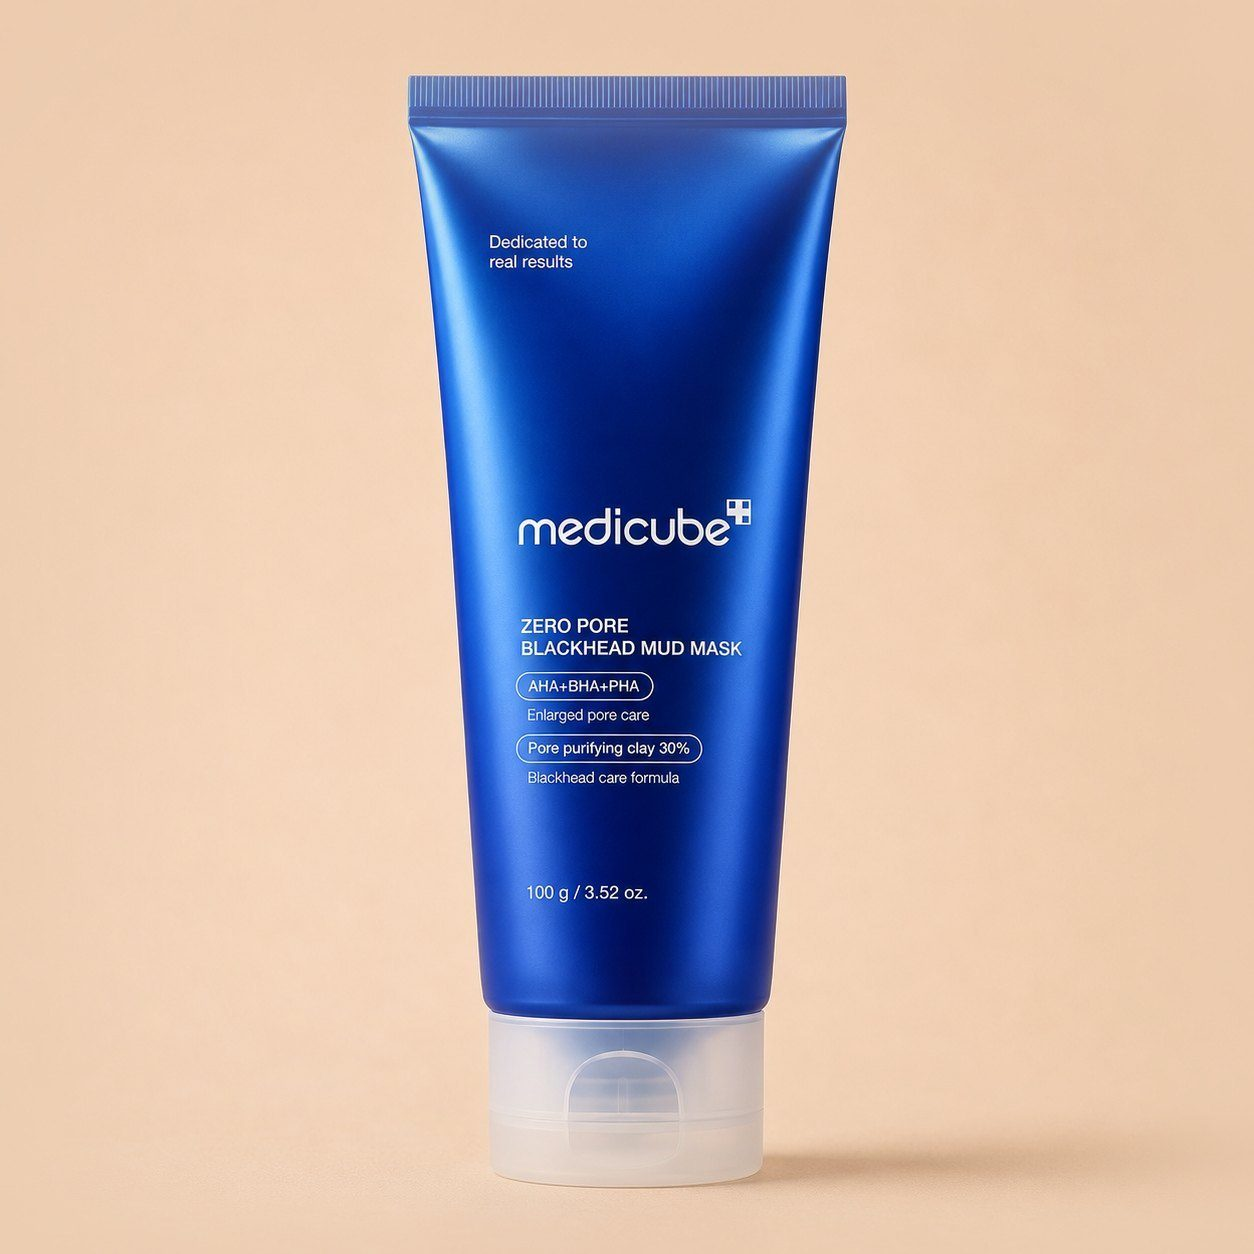
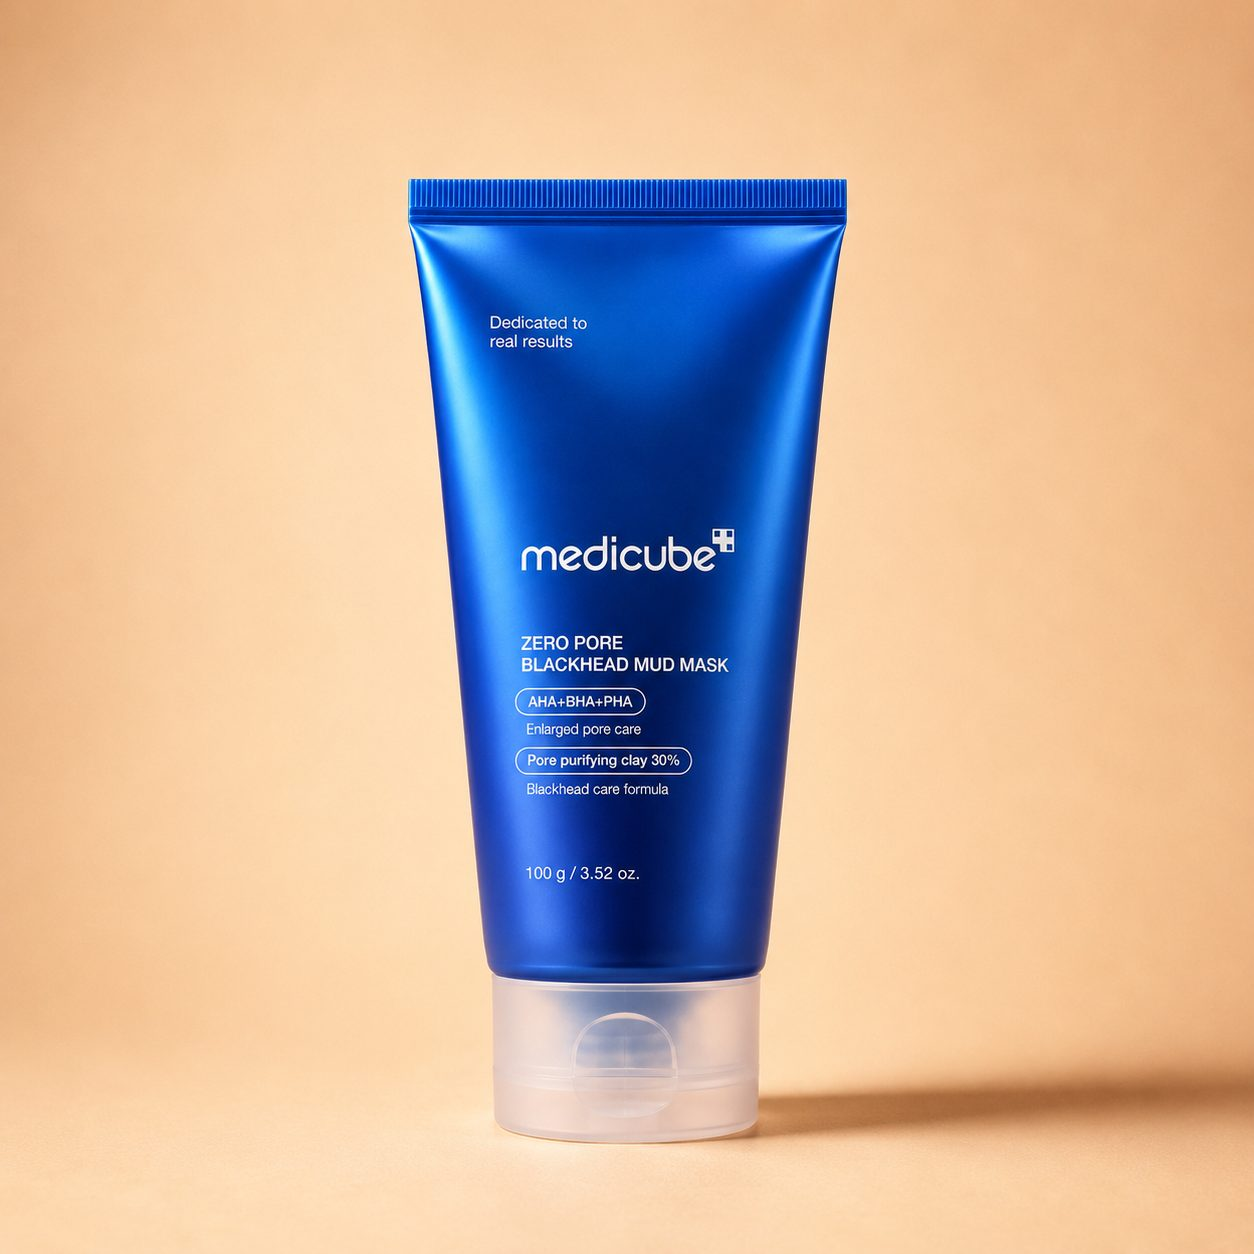
Photograph and price the Zero Pore Blackhead Mud Mask
The page had a single picture of the tube and no price. Five
photographs now, and R350.00 through the PRICES table, so the card, the
page, the cart line, the order total and the JSON-LD offer all follow
from the one entry.

The new cover takes the primary slug, since that is what the card, the
Open Graph image and the gallery hero resolve to. The packshot it
replaces is deleted rather than kept: it was the same tube at the same
angle on the same ground, and a gallery that opens on two versions of
one photograph reads as a mistake.

Nothing on the page needed correcting against the packaging — the tube
confirms the 100 g, the AHA+BHA+PHA and the 30% pore-purifying clay the
copy already claimed.

Four of the five arrived portrait against a 1/1 stage and are cropped
on a point that keeps the tube, and the model's face where there is
one, in frame.

diff --git a/dist/medicube-zero-pore-blackhead-mud-mask.html b/dist/medicube-zero-pore-blackhead-mud-mask.html
@@ -43,7 +43,14 @@
  },
  "description": "Medicube Zero Pore Blackhead Mud Mask 100 g \u2014 a clay treatment mask with AHA, BHA, PHA and a 30% pore-purifying clay complex.",
  "image": "https://mcclouds-web.github.io/cassarobeauty/assets/products/medicube-zero-pore-blackhead-mud-mask.jpg",
- "url": "https://mcclouds-web.github.io/cassarobeauty/medicube-zero-pore-blackhead-mud-mask.html"
+ "url": "https://mcclouds-web.github.io/cassarobeauty/medicube-zero-pore-blackhead-mud-mask.html",
+ "offers": {
+  "@type": "Offer",
+  "price": "350.00",
+  "priceCurrency": "ZAR",
+  "availability": "https://schema.org/InStock",
+  "url": "https://mcclouds-web.github.io/cassarobeauty/medicube-zero-pore-blackhead-mud-mask.html"
+ }
 }</script>
 </head>
 <body>
@@ -145,7 +152,11 @@
         <button class="pdp__arrow pdp__arrow--next" aria-label="Next">&rsaquo;</button>
       </div>
       <div class="pdp__thumbs">
-        <button class="is-active" aria-label="Show image 1"><picture><source srcset="assets/products/medicube-zero-pore-blackhead-mud-mask.webp" type="image/webp"/><img class="ph-img" src="assets/products/medicube-zero-pore-blackhead-mud-mask.jpg" alt="Zero Pore Blackhead Mud Mask view 1" width="1254" height="1254" loading="lazy" decoding="async"/></picture></button>
+        <button class="is-active" aria-label="Show image 1"><picture><source srcset="assets/products/medicube-zero-pore-blackhead-mud-mask.webp" type="image/webp"/><img class="ph-img" src="assets/products/medicube-zero-pore-blackhead-mud-mask.jpg" alt="Zero Pore Blackhead Mud Mask tube" width="1254" height="1254" loading="lazy" decoding="async"/></picture></button>
+        <button aria-label="Show image 2"><picture><source srcset="assets/products/medicube-zero-pore-blackhead-mud-mask-model.webp" type="image/webp"/><img class="ph-img" src="assets/products/medicube-zero-pore-blackhead-mud-mask-model.jpg" alt="A model holding the Zero Pore Blackhead Mud Mask" width="1122" height="1122" loading="lazy" decoding="async"/></picture></button>
+        <button aria-label="Show image 3"><picture><source srcset="assets/products/medicube-zero-pore-blackhead-mud-mask-hand.webp" type="image/webp"/><img class="ph-img" src="assets/products/medicube-zero-pore-blackhead-mud-mask-hand.jpg" alt="The tube held up against a warm ground" width="1122" height="1122" loading="lazy" decoding="async"/></picture></button>
+        <button aria-label="Show image 4"><picture><source srcset="assets/products/medicube-zero-pore-blackhead-mud-mask-stone.webp" type="image/webp"/><img class="ph-img" src="assets/products/medicube-zero-pore-blackhead-mud-mask-stone.jpg" alt="The tube on stone beside a folded towel" width="1086" height="1086" loading="lazy" decoding="async"/></picture></button>
+        <button aria-label="Show image 5"><picture><source srcset="assets/products/medicube-zero-pore-blackhead-mud-mask-flatlay.webp" type="image/webp"/><img class="ph-img" src="assets/products/medicube-zero-pore-blackhead-mud-mask-flatlay.jpg" alt="The tube resting on a travertine block" width="1024" height="1024" loading="lazy" decoding="async"/></picture></button>
       </div>
     </div>
 
@@ -153,7 +164,7 @@
       <p class="pcard__cat">Medicube &middot; Treatment Mask</p>
       <h2 class="pdp__title">Zero Pore Blackhead Mud Mask <span class="tag-stock">In Stock</span></h2>
       <div class="pdp__rating"><span class="stars-inline"><span class="material-symbols-outlined star">star</span><span class="material-symbols-outlined star">star</span><span class="material-symbols-outlined star">star</span><span class="material-symbols-outlined star">star</span><span class="material-symbols-outlined star">star_half</span></span><b>4.7</b> <span>(147 reviews)</span></div>
-      <div class="pdp__price">R___</div>
+      <div class="pdp__price">R350.00</div>
       <p>A clay-based treatment mask designed to help absorb excess oil, purify congested pores and improve the appearance of blackheads. Its formula combines a 30% pore-purifying clay complex with AHA, BHA and PHA for a more refined, refreshed-looking complexion.</p>
 
       <div class="pdp__sizes">

diff --git a/pages/medicube-zero-pore-blackhead-mud-mask.html b/pages/medicube-zero-pore-blackhead-mud-mask.html
@@ -16,7 +16,11 @@
         <button class="pdp__arrow pdp__arrow--next" aria-label="Next">&rsaquo;</button>
       </div>
       <div class="pdp__thumbs">
-        <button class="is-active" aria-label="Show image 1">{{IMG|medicube-zero-pore-blackhead-mud-mask|Zero Pore Blackhead Mud Mask view 1}}</button>
+        <button class="is-active" aria-label="Show image 1">{{IMG|medicube-zero-pore-blackhead-mud-mask|Zero Pore Blackhead Mud Mask tube}}</button>
+        <button aria-label="Show image 2">{{IMG|medicube-zero-pore-blackhead-mud-mask-model|A model holding the Zero Pore Blackhead Mud Mask}}</button>
+        <button aria-label="Show image 3">{{IMG|medicube-zero-pore-blackhead-mud-mask-hand|The tube held up against a warm ground}}</button>
+        <button aria-label="Show image 4">{{IMG|medicube-zero-pore-blackhead-mud-mask-stone|The tube on stone beside a folded towel}}</button>
+        <button aria-label="Show image 5">{{IMG|medicube-zero-pore-blackhead-mud-mask-flatlay|The tube resting on a travertine block}}</button>
       </div>
     </div>
 
@@ -24,7 +28,7 @@
       <p class="pcard__cat">Medicube &middot; Treatment Mask</p>
       <h2 class="pdp__title">Zero Pore Blackhead Mud Mask <span class="tag-stock">In Stock</span></h2>
       {{RATING|Zero Pore Blackhead Mud Mask}}
-      <div class="pdp__price">R___</div>
+      <div class="pdp__price">R350.00</div>
       <p>A clay-based treatment mask designed to help absorb excess oil, purify congested pores and improve the appearance of blackheads. Its formula combines a 30% pore-purifying clay complex with AHA, BHA and PHA for a more refined, refreshed-looking complexion.</p>
 
       <div class="pdp__sizes">

diff --git a/dist/medicube-zero-pore-pad.html b/dist/medicube-zero-pore-pad.html
@@ -305,7 +305,7 @@
 </div>
 <div class="pcard__row"><span class="pcard__cat">Medicube</span><span class="rating"><span class="material-symbols-outlined star">star</span><span class="material-symbols-outlined star">star</span><span class="material-symbols-outlined star">star</span><span class="material-symbols-outlined star">star</span><span class="material-symbols-outlined star">star_half</span><span class="rating__n">4.7</span></span></div>
 <h3 class="pcard__name">Zero Pore Blackhead Mud Mask</h3>
-<div class="price">R___</div>
+<div class="price">R350.00</div>
 </a>
       <a class="pcard" href="medicube-pdrn-pink-niacinamide-whip-cleanser.html" data-brand="Medicube" data-cat="Face Cleansers" data-skin="normal combination oily" data-concern="brightening" data-stock="in">
 <div class="pcard__media">

diff --git a/dist/beauty-of-joseon-red-bean-refreshing-pore-mask.html b/dist/beauty-of-joseon-red-bean-refreshing-pore-mask.html
@@ -305,7 +305,7 @@
 </div>
 <div class="pcard__row"><span class="pcard__cat">Medicube</span><span class="rating"><span class="material-symbols-outlined star">star</span><span class="material-symbols-outlined star">star</span><span class="material-symbols-outlined star">star</span><span class="material-symbols-outlined star">star</span><span class="material-symbols-outlined star">star_half</span><span class="rating__n">4.7</span></span></div>
 <h3 class="pcard__name">Zero Pore Blackhead Mud Mask</h3>
-<div class="price">R___</div>
+<div class="price">R350.00</div>
 </a>
       <a class="pcard" href="beauty-of-joseon-glow-deep-serum.html" data-brand="Beauty of Joseon" data-cat="Serums" data-skin="normal combination dry" data-concern="brightening dark-spots" data-stock="in">
 <div class="pcard__media">

diff --git a/dist/shop.html b/dist/shop.html
@@ -512,7 +512,7 @@
 </div>
 <div class="pcard__row"><span class="pcard__cat">Medicube</span><span class="rating"><span class="material-symbols-outlined star">star</span><span class="material-symbols-outlined star">star</span><span class="material-symbols-outlined star">star</span><span class="material-symbols-outlined star">star</span><span class="material-symbols-outlined star">star_half</span><span class="rating__n">4.7</span></span></div>
 <h3 class="pcard__name">Zero Pore Blackhead Mud Mask</h3>
-<div class="price">R___</div>
+<div class="price">R350.00</div>
 </a>
         <a class="pcard" href="medicube-zero-pore-pad.html" data-brand="Medicube" data-cat="Toners" data-skin="combination oily" data-concern="blemishes brightening" data-stock="in">
 <div class="pcard__media">

diff --git a/dist/skincare.html b/dist/skincare.html
@@ -566,7 +566,7 @@
 </div>
 <div class="pcard__row"><span class="pcard__cat">Medicube</span><span class="rating"><span class="material-symbols-outlined star">star</span><span class="material-symbols-outlined star">star</span><span class="material-symbols-outlined star">star</span><span class="material-symbols-outlined star">star</span><span class="material-symbols-outlined star">star_half</span><span class="rating__n">4.7</span></span></div>
 <h3 class="pcard__name">Zero Pore Blackhead Mud Mask</h3>
-<div class="price">R___</div>
+<div class="price">R350.00</div>
 </a>
         <a class="pcard" href="medicube-zero-pore-pad.html" data-brand="Medicube" data-cat="Toners" data-skin="combination oily" data-concern="blemishes brightening" data-stock="in">
 <div class="pcard__media">

diff --git a/dist/anua-azelaic-acid-10-hyaluron-serum.html b/dist/anua-azelaic-acid-10-hyaluron-serum.html
@@ -329,7 +329,7 @@
 </div>
 <div class="pcard__row"><span class="pcard__cat">Medicube</span><span class="rating"><span class="material-symbols-outlined star">star</span><span class="material-symbols-outlined star">star</span><span class="material-symbols-outlined star">star</span><span class="material-symbols-outlined star">star</span><span class="material-symbols-outlined star">star_half</span><span class="rating__n">4.7</span></span></div>
 <h3 class="pcard__name">Zero Pore Blackhead Mud Mask</h3>
-<div class="price">R___</div>
+<div class="price">R350.00</div>
 </a>
     </div>
   </div>

diff --git a/build.py b/build.py
@@ -334,6 +334,7 @@ PRICES = {
  "Zero Pore Pad": 580.00,
  "Red Bean Refreshing Pore Mask": 480.00,
  "Apricot Blossom Peeling Gel": 300.00,
+ "Zero Pore Blackhead Mud Mask": 350.00,
 }
 
 CURRENCY = "ZAR"
